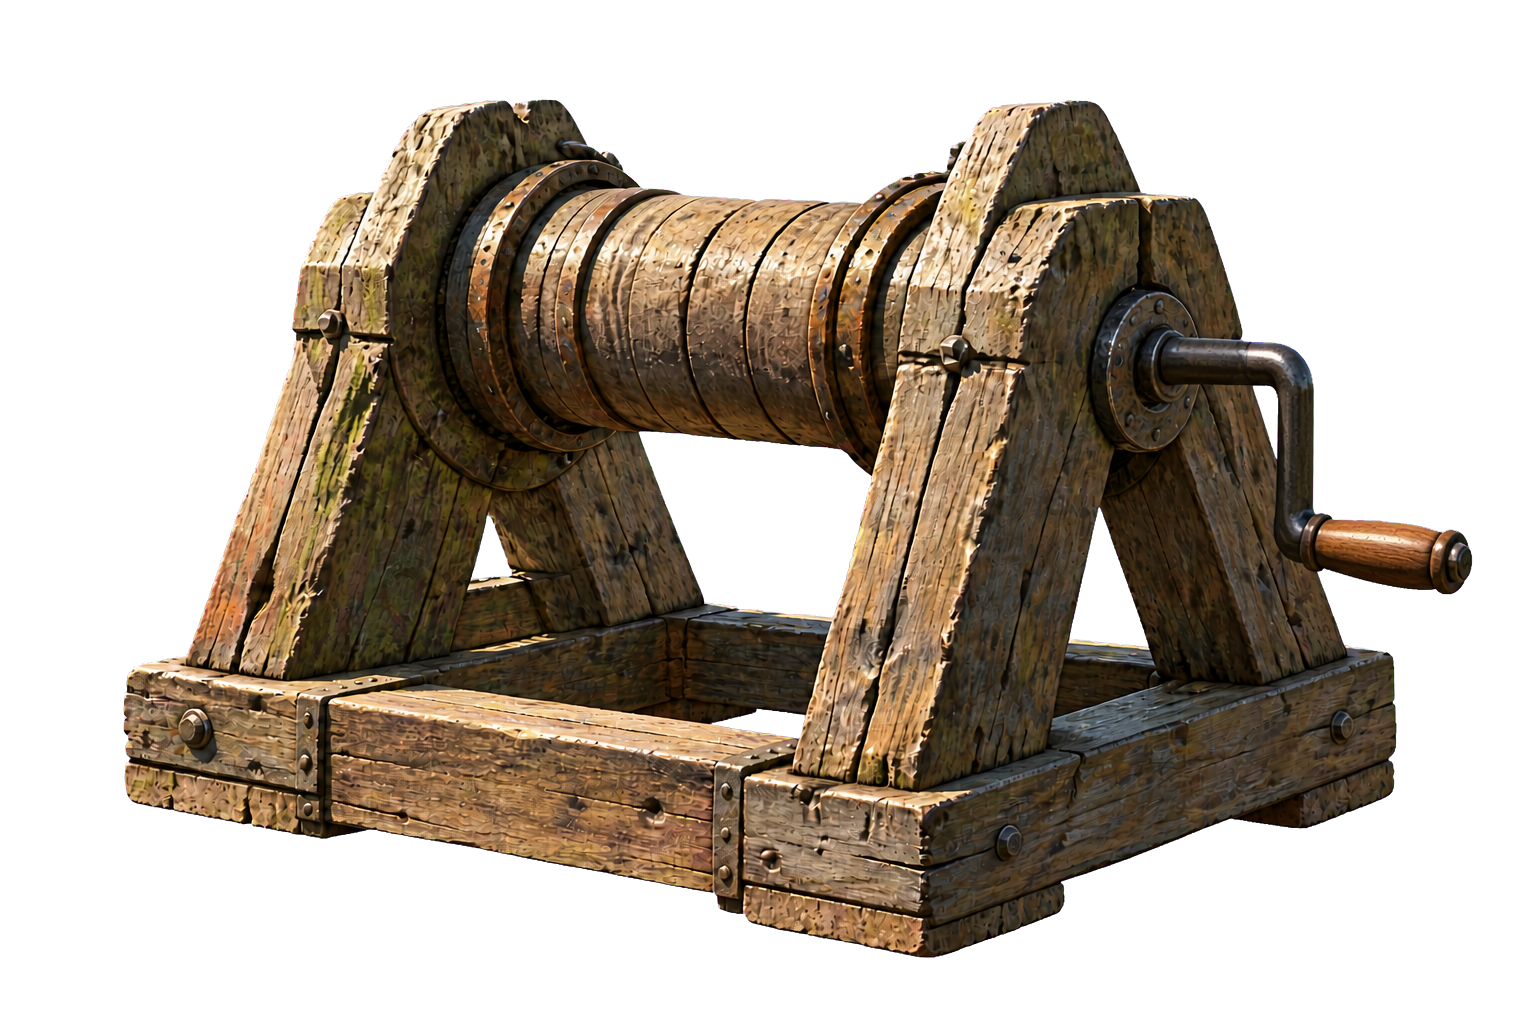
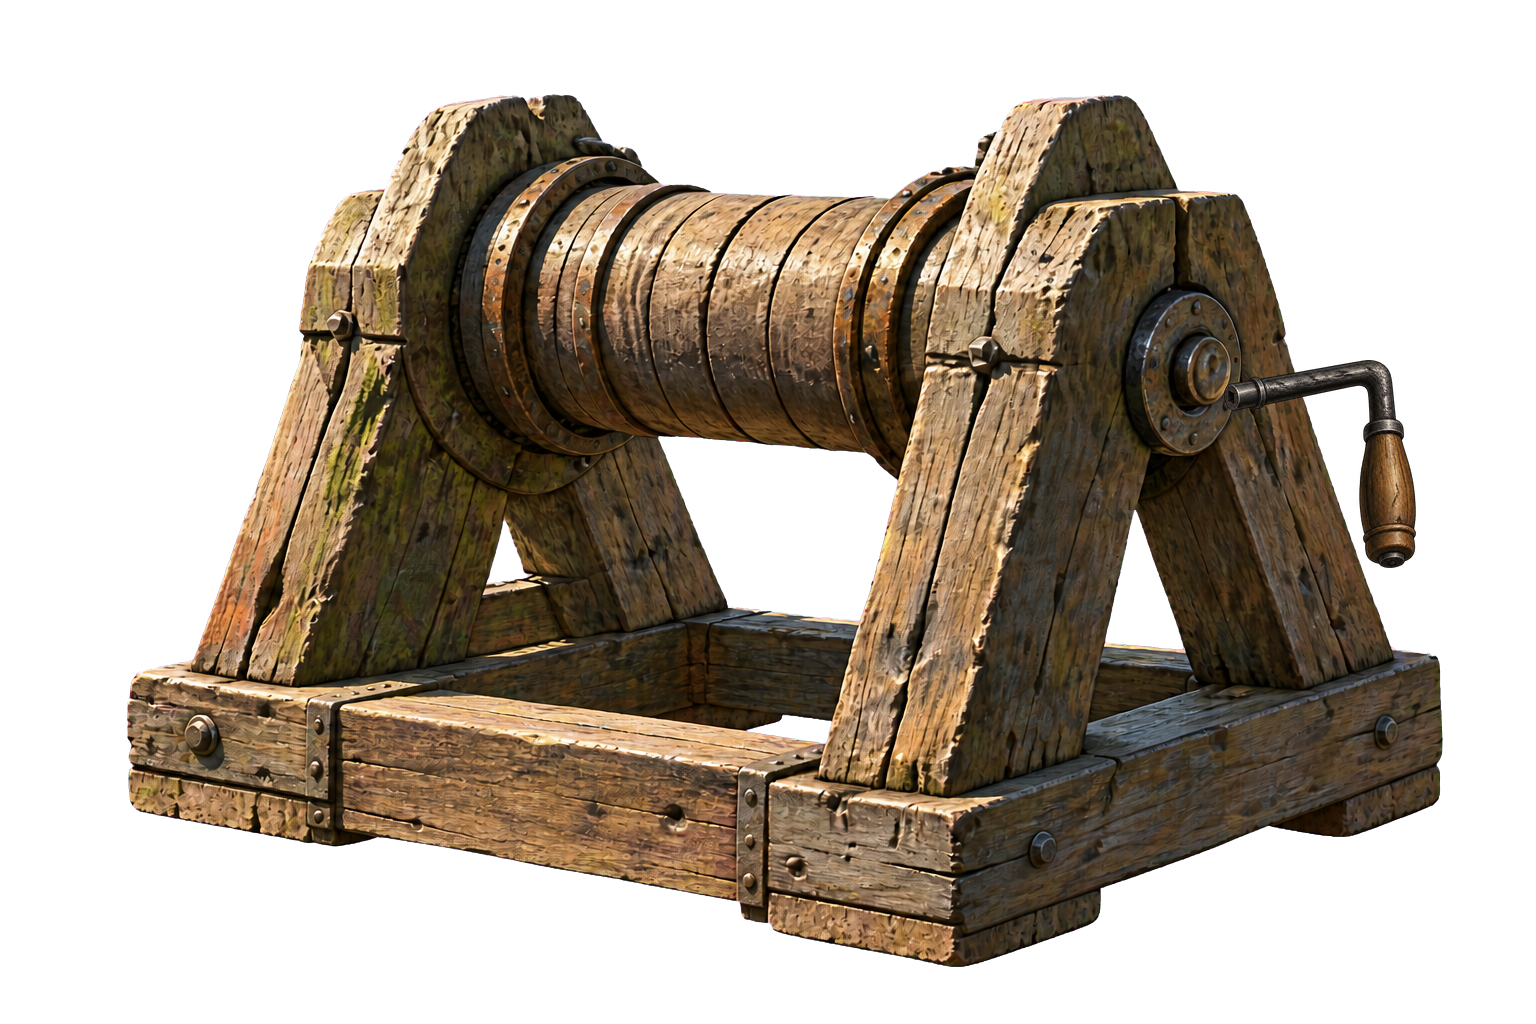
fix(example): address winch showcase review

diff --git a/examples/capri-1535/test/harbour-opening.spec.ts b/examples/capri-1535/test/harbour-opening.spec.ts
@@ -48,6 +48,21 @@ async function visibleHotspot(page: Page, label: string): Promise<Point | undefi
   return point;
 }
 
+async function hotspotIsAvailable(page: Page, label: string): Promise<boolean> {
+  const frame = page.locator("[data-fondale-frame]");
+  await frame.focus();
+  await page.keyboard.down("Tab");
+  const hotspots = frame.locator("[data-fondale-revealed-hotspot]");
+  for (let index = 0; index < await hotspots.count(); index += 1) {
+    if (await hotspots.nth(index).locator("title").textContent() === label) {
+      await page.keyboard.up("Tab");
+      return true;
+    }
+  }
+  await page.keyboard.up("Tab");
+  return false;
+}
+
 async function activateHotspot(page: Page, label: string): Promise<void> {
   for (let attempt = 0; attempt < 8; attempt += 1) {
     const point = await visibleHotspot(page, label);
@@ -61,9 +76,13 @@ async function activateHotspot(page: Page, label: string): Promise<void> {
   throw new Error(`Hotspot '${label}' never entered the Camera viewport`);
 }
 
-async function activatePassage(page: Page, label: string): Promise<void> {
+async function activatePassage(
+  page: Page,
+  label: string,
+  options: { readonly pan: "left" | "right"; readonly attempts?: number } = { pan: "right" },
+): Promise<void> {
   const frame = page.locator("[data-fondale-frame]");
-  const attempts = label.includes("fortificazione") ? 24 : 8;
+  const attempts = options.attempts ?? 8;
   for (let attempt = 0; attempt < attempts; attempt += 1) {
     await frame.focus();
     await page.keyboard.down("Tab");
@@ -83,13 +102,25 @@ async function activatePassage(page: Page, label: string): Promise<void> {
       await clickCanvas(page, point);
       return;
     }
-    await clickCanvas(page, {
-      x: label.includes("porto") || label.includes("fortificazione") ? 80 : 1200,
-      y: 650,
-    });
+    await clickCanvas(page, { x: options.pan === "left" ? 80 : 1200, y: 650 });
     await page.waitForTimeout(1_000);
   }
   throw new Error(`Passage '${label}' never entered the Camera viewport`);
+}
+
+async function passageIsAvailable(page: Page, label: string): Promise<boolean> {
+  const frame = page.locator("[data-fondale-frame]");
+  await frame.focus();
+  await page.keyboard.down("Tab");
+  const passages = frame.locator("[data-fondale-revealed-passage]");
+  for (let index = 0; index < await passages.count(); index += 1) {
+    if (await passages.nth(index).locator("title").textContent() === label) {
+      await page.keyboard.up("Tab");
+      return true;
+    }
+  }
+  await page.keyboard.up("Tab");
+  return false;
 }
 
 async function advance(page: Page): Promise<void> {
@@ -170,7 +201,7 @@ async function recoverHandleAtHarbour(page: Page): Promise<void> {
   await expect(page.locator('[data-fondale-inventory-object="winchHandle"]')).toHaveCount(1);
   await advance(page);
 
-  await activatePassage(page, "Passaggio verso il porto");
+  await activatePassage(page, "Passaggio verso il porto", { pan: "left" });
   await expect(page.locator("[data-fondale-frame]")).toHaveAttribute(
     "data-fondale-scene",
     "harbour",
@@ -206,27 +237,6 @@ async function winchHubPixels(page: Page): Promise<string> {
 async function installHandle(page: Page): Promise<void> {
   await selectInventoryObject(page, "winchHandle");
   await activateHotspot(page, "Argano senza manovella");
-}
-
-async function continuationCheckpoint(page: Page): Promise<Readonly<Record<string, string>>> {
-  return page.evaluate(() => Object.fromEntries(Array.from(
-    { length: localStorage.length },
-    (_, index) => localStorage.key(index),
-  ).filter((key): key is string => key !== null).map((key) => [key, localStorage.getItem(key) ?? ""])));
-}
-
-async function restoreContinuationCheckpoint(
-  page: Page,
-  checkpoint: Readonly<Record<string, string>>,
-): Promise<void> {
-  await page.addInitScript((entries) => {
-    localStorage.clear();
-    for (const [key, value] of Object.entries(entries)) localStorage.setItem(key, value);
-  }, checkpoint);
-  await page.reload();
-  await page.locator("[data-fondale-continuation]")
-    .getByRole("button", { name: "Continue" }).click();
-  await expect(page.locator("[data-fondale-frame]")).toBeVisible();
 }
 
 test("the authored harbour job gives one sealed letter and records Raffaele's theft Claim as Testimony", async ({
@@ -361,7 +371,7 @@ test("Michele delivers the letter, frees the well and keeps the recovered handle
   await expect(page.locator('[data-fondale-inventory-object="winchHandle"]')).toHaveCount(1);
   await advance(page);
 
-  await activatePassage(page, "Passaggio verso il porto");
+  await activatePassage(page, "Passaggio verso il porto", { pan: "left" });
   await expect(frame).toHaveAttribute("data-fondale-scene", "harbour", { timeout: 15_000 });
   await continueGameSession(page);
   await expect(frame).toHaveAttribute("data-fondale-scene", "harbour");
@@ -386,29 +396,9 @@ test("Michele delivers the letter, frees the well and keeps the recovered handle
 });
 
 test("Michele installs the handle at contact and every response to Raffaele opens the fortification", async ({
-  page,
+  browser,
 }) => {
   test.slow();
-  const { errors } = await openGame(page);
-  await recoverHandleAtHarbour(page);
-
-  const beforeContact = await winchHubPixels(page);
-  await installHandle(page);
-  await page.waitForTimeout(50);
-  expect(await winchHubPixels(page)).toBe(beforeContact);
-  await page.waitForTimeout(550);
-  expect(await winchHubPixels(page)).not.toBe(beforeContact);
-  await expect(page.locator('[data-fondale-inventory-object="winchHandle"]')).toHaveCount(0);
-  await expect(page.locator('[data-fondale-line][data-fondale-speaker="michele"]'))
-    .toContainText("argano", { timeout: 15_000 });
-  await advance(page);
-  await continueGameSession(page);
-  expect(await visibleHotspot(page, "Argano riparato")).toBeDefined();
-  const repairedPixels = await winchHubPixels(page);
-  expect(repairedPixels).not.toBe(beforeContact);
-  await shoot(page, "harbour-winch-repaired");
-  const checkpoint = await continuationCheckpoint(page);
-
   const branches = [{
     choice: "Mi hai mentito sui frati.",
     reply: "Prestito",
@@ -423,8 +413,30 @@ test("Michele installs the handle at contact and every response to Raffaele open
     later: "L'argano tiene",
   }] as const;
 
-  for (const [index, branch] of branches.entries()) {
-    if (index > 0) await restoreContinuationCheckpoint(page, checkpoint);
+  await Promise.all(branches.map(async (branch, index) => {
+    const context = await browser.newContext();
+    const page = await context.newPage();
+    const { errors } = await openGame(page);
+    await recoverHandleAtHarbour(page);
+
+    const beforeContact = await winchHubPixels(page);
+    await installHandle(page);
+    if (index === 0) {
+      await page.waitForTimeout(550);
+      expect(await winchHubPixels(page)).not.toBe(beforeContact);
+    }
+    await expect(page.locator('[data-fondale-inventory-object="winchHandle"]')).toHaveCount(0);
+    await expect(page.locator('[data-fondale-line][data-fondale-speaker="michele"]'))
+      .toContainText("argano", { timeout: 15_000 });
+    await advance(page);
+    await continueGameSession(page);
+    expect(await hotspotIsAvailable(page, "Argano riparato")).toBe(true);
+    expect(await passageIsAvailable(page, "Gozzo verso la fortificazione")).toBe(false);
+    if (index === 0) {
+      expect(await winchHubPixels(page)).not.toBe(beforeContact);
+      await shoot(page, "harbour-winch-repaired");
+    }
+
     await activateHotspot(page, "Raffaele");
     const conversation = page.locator("[data-fondale-conversation]");
     await expect(conversation.getByRole("button", { name: branch.choice })).toBeVisible({
@@ -440,14 +452,18 @@ test("Michele installs the handle at contact and every response to Raffaele open
       .toContainText(branch.later);
     await advance(page);
     await conversation.getByRole("button", { name: "Leave" }).click();
-    await activatePassage(page, "Gozzo verso la fortificazione");
+    await activatePassage(page, "Gozzo verso la fortificazione", {
+      pan: "left",
+      attempts: 24,
+    });
     await expect(page.locator("[data-fondale-frame]")).toHaveAttribute(
       "data-fondale-scene",
       "coastalFortification",
       { timeout: 15_000 },
     );
-  }
-  expect(errors).toEqual([]);
+    expect(errors).toEqual([]);
+    await context.close();
+  }));
 });
 
 test("skipping the installation commits the same repaired world through continuation", async ({
@@ -462,7 +478,7 @@ test("skipping the installation commits the same repaired world through continua
   await page.waitForTimeout(100);
   await page.keyboard.press("Escape");
   await expect(page.locator('[data-fondale-inventory-object="winchHandle"]')).toHaveCount(0);
-  expect(await visibleHotspot(page, "Argano riparato")).toBeDefined();
+  expect(await hotspotIsAvailable(page, "Argano riparato")).toBe(true);
 
   await activatePassage(page, "Passaggio verso il chiostro");
   await expect(page.locator("[data-fondale-frame]")).toHaveAttribute(
@@ -470,7 +486,7 @@ test("skipping the installation commits the same repaired world through continua
     "cloister",
     { timeout: 15_000 },
   );
-  await activatePassage(page, "Passaggio verso il porto");
+  await activatePassage(page, "Passaggio verso il porto", { pan: "left" });
   await expect(page.locator("[data-fondale-frame]")).toHaveAttribute(
     "data-fondale-scene",
     "harbour",
@@ -478,7 +494,19 @@ test("skipping the installation commits the same repaired world through continua
   );
   await continueGameSession(page);
   expect(await visibleHotspot(page, "Argano riparato")).toBeDefined();
-  await activatePassage(page, "Gozzo verso la fortificazione");
+  expect(await passageIsAvailable(page, "Gozzo verso la fortificazione")).toBe(false);
+
+  await activateHotspot(page, "Raffaele");
+  const conversation = page.locator("[data-fondale-conversation]");
+  await conversation.getByRole("button", { name: "Non dirò nulla del prestito." }).click();
+  await expect(page.locator('[data-fondale-line][data-fondale-speaker="raffaele"]'))
+    .toContainText("discrezione");
+  await advance(page);
+  await conversation.getByRole("button", { name: "Leave" }).click();
+  await activatePassage(page, "Gozzo verso la fortificazione", {
+    pan: "left",
+    attempts: 24,
+  });
   await expect(page.locator("[data-fondale-frame]")).toHaveAttribute(
     "data-fondale-scene",
     "coastalFortification",

diff --git a/examples/capri-1535/src/scenes/harbour/index.ts b/examples/capri-1535/src/scenes/harbour/index.ts
@@ -19,6 +19,11 @@ const staticAnimation = (image: string, width: number, height: number) => ({
   roles: { default: "idle" },
 });
 
+const installedWinchSheet = {
+  image: winchInstalledUrl,
+  frames: [{ x: 0, y: 0, width: 384, height: 255 }],
+};
+
 export const harbour = ({
   background: backgroundUrl,
   size: { width: 1920, height: 720 },
@@ -68,10 +73,7 @@ export const harbour = ({
           animations: {
             ...staticAnimation(winchMissingHandleUrl, 384, 255).animations,
             engaging: {
-              sheet: {
-                image: winchInstalledUrl,
-                frames: [{ x: 0, y: 0, width: 384, height: 255 }],
-              },
+              sheet: installedWinchSheet,
               timing: { framesPerSecond: 1 },
             },
           },
@@ -82,16 +84,13 @@ export const harbour = ({
           animations: {
             idle: {
               sheet: {
-                image: winchInstalledUrl,
+                image: winchMissingHandleUrl,
                 frames: [{ x: 0, y: 0, width: 384, height: 255 }],
               },
               timing: { framesPerSecond: 1, loop: true },
             },
             engaging: {
-              sheet: {
-                image: winchInstalledUrl,
-                frames: [{ x: 0, y: 0, width: 384, height: 255 }],
-              },
+              sheet: installedWinchSheet,
               timing: { framesPerSecond: 1 },
             },
           },
@@ -101,7 +100,7 @@ export const harbour = ({
       },
       noun: ({
         labels: [
-          { text: "Argano riparato", when: { variable: "boatReady", equals: true } },
+          { text: "Argano riparato", when: { variable: "winchRepaired", equals: true } },
           { text: "Argano senza manovella" },
         ],
         preferredVerbs: [{ verb: "look-at" }],
@@ -109,11 +108,11 @@ export const harbour = ({
         cases: [{
           verb: "use",
           firstNoun: "winchHandle",
-          when: { variable: "boatReady", equals: false },
+          when: { variable: "winchRepaired", equals: false },
           sequence: "winchInstallation",
         }, {
           verb: "look-at",
-          when: { variable: "boatReady", equals: true },
+          when: { variable: "winchRepaired", equals: true },
           response: { text: "La manovella è montata saldamente. L'argano è tornato al lavoro." },
         }, {
           verb: "look-at",

diff --git a/examples/capri-1535/src/characters/raffaele/index.ts b/examples/capri-1535/src/characters/raffaele/index.ts
@@ -121,6 +121,8 @@ export const raffaele = ({
       response:
         "Prestito, furto: la manovella era là e ora è qui. Non serve girarci intorno, vedo che hai capito.",
       operations: [{ type: "set-variable", variable: "raffaeleConfrontationReady", value: false }, {
+        type: "set-variable", variable: "boatReady", value: true,
+      }, {
         type: "set-trust", character: "raffaele", towards: "michele", trust: "low",
       }, {
         type: "set-dialogue-state", character: "raffaele", state: "angry",
@@ -130,6 +132,8 @@ export const raffaele = ({
       when: { variable: "raffaeleConfrontationReady", equals: true },
       response: "La discrezione tiene insieme più corde di un buon nodo. Sali alla torre.",
       operations: [{ type: "set-variable", variable: "raffaeleConfrontationReady", value: false }, {
+        type: "set-variable", variable: "boatReady", value: true,
+      }, {
         type: "set-trust", character: "raffaele", towards: "michele", trust: "high",
       }, {
         type: "set-dialogue-state", character: "raffaele", state: "calm",
@@ -139,6 +143,8 @@ export const raffaele = ({
       when: { variable: "raffaeleConfrontationReady", equals: true },
       response: "Una moneta in più per la manovella, una in meno per l'insolenza. Facciamo una in più.",
       operations: [{ type: "set-variable", variable: "raffaeleConfrontationReady", value: false }, {
+        type: "set-variable", variable: "boatReady", value: true,
+      }, {
         type: "set-trust", character: "raffaele", towards: "michele", trust: "medium",
       }, {
         type: "set-dialogue-state", character: "raffaele", state: "calm",

diff --git a/examples/capri-1535/src/sequences/winch-installation.ts b/examples/capri-1535/src/sequences/winch-installation.ts
@@ -1,7 +1,7 @@
 import { type SequenceDefinition, type GameOperation } from "@asterixcapri/fondale";
 
 const outcome: readonly GameOperation[] = [
-  { type: "set-variable", variable: "boatReady", value: true },
+  { type: "set-variable", variable: "winchRepaired", value: true },
   { type: "set-variable", variable: "raffaeleConfrontationReady", value: true },
   {
     type: "set-appearance",
@@ -12,7 +12,7 @@ const outcome: readonly GameOperation[] = [
     type: "place-object",
     object: "winchHandle",
     scene: "harbour",
-    groundPoint: { x: 1758, y: 585 },
+    groundPoint: { x: 1642, y: 650 },
     appearance: "installed",
   },
 ];

diff --git a/examples/capri-1535/src/objects/winch-handle/index.ts b/examples/capri-1535/src/objects/winch-handle/index.ts
@@ -22,12 +22,12 @@ export const winchHandle = ({
     installed: {
       animations: {
         idle: {
-          sheet: { image: installedUrl, frames: [{ x: 0, y: 0, width: 62, height: 170 }] },
+          sheet: { image: installedUrl, frames: [{ x: 0, y: 0, width: 384, height: 320 }] },
           timing: { framesPerSecond: 1, loop: true },
         },
       },
       roles: { default: "idle" },
-      visualAnchor: { x: 6, y: 170 },
+      visualAnchor: { x: 192, y: 320 },
     },
   },
   inventoryAppearance: inventoryUrl,

diff --git a/examples/capri-1535/src/variables.ts b/examples/capri-1535/src/variables.ts
@@ -6,6 +6,7 @@ export const variables = ({
   pulleyTroubleKnown: false,
   wellLubricated: false,
   wellFreed: false,
+  winchRepaired: false,
   boatReady: false,
   raffaeleConfrontationReady: false,
   driftingBoatSeen: false,

diff --git a/examples/capri-1535/art/scenes/harbour/provenance.md b/examples/capri-1535/art/scenes/harbour/provenance.md
@@ -50,13 +50,13 @@ sheet pairs the covering and moved Runtime images for the Cue-driven reveal.
 
 ## Installed winch Appearance
 
-Ticket 08 used the built-in OpenAI image editing workflow with the accepted
-missing-handle winch as the edit target and the winch-handle Object master as
-the identity and material reference. The prompt required changing only the
-empty right hub by seating one wrought-iron L-shaped crank with a worn walnut
-grip, while preserving the winch's camera, scale, geometry, rope, lighting,
-padding and silhouette on a flat `#ff00ff` chroma field. The retained chroma
-source is `generated/winch-installed-chroma.png`; the installed helper removed
-the field with border sampling, soft matte, thresholds `12/220` and despill to
-produce `winch-installed-master.png`. The `384×255` Runtime derivative matches
-the missing-handle Appearance's exact cell size and `192,255` Visual Anchor.
+Ticket 08 recomposes the accepted missing-handle Art Master with the isolated
+installed Appearance from the persistent winch-handle Object. The handle was
+produced through the built-in OpenAI image editing workflow documented in its
+Object package, then fitted at `192×208` master pixels at offset `1224,360`.
+The same deterministic composition uses the `48×52` Runtime handle at offset
+`306,90`. This produces `winch-installed-master.png` and its `384×255` Runtime
+derivative without changing any missing-state winch pixel. Both winch states
+therefore share the exact cell size, position and `192,255` Visual Anchor; the
+persistent installed rendering separates the unchanged winch Scenery from the
+single Object-owned handle at those coordinates.
